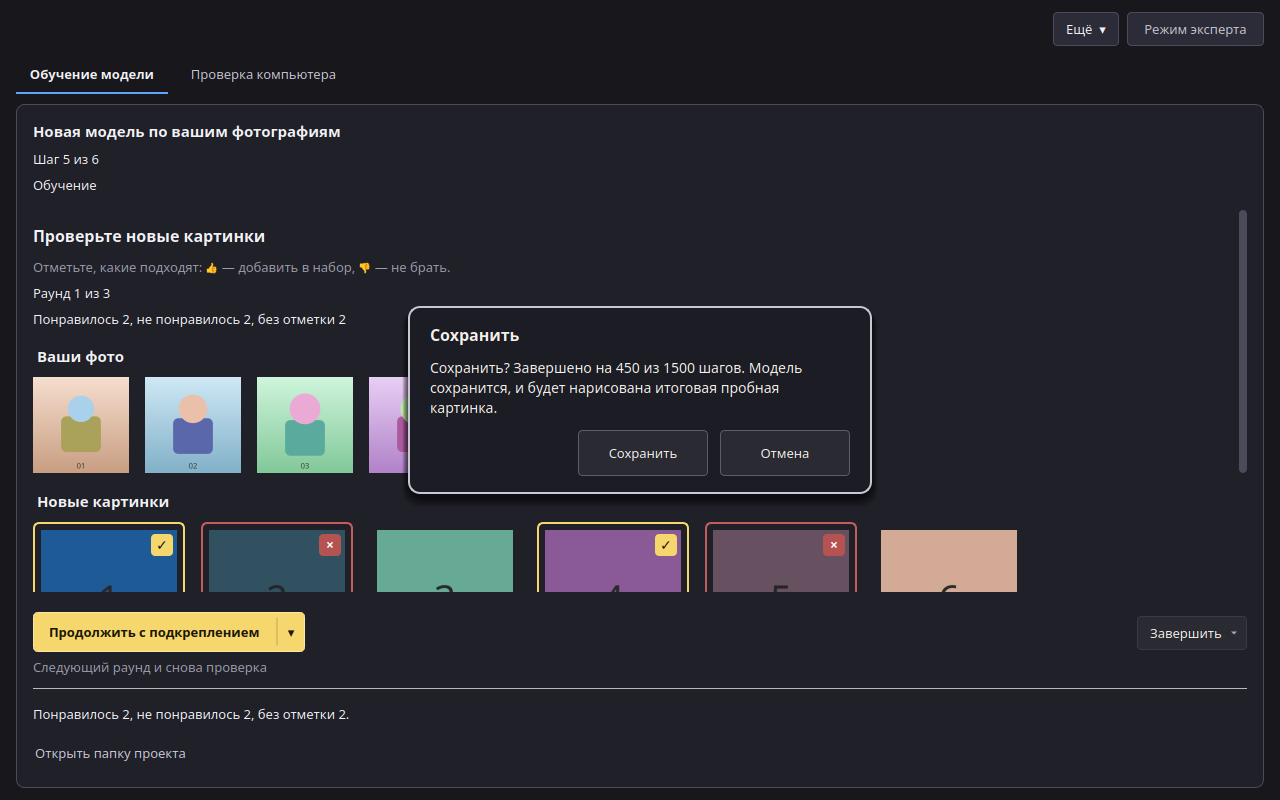
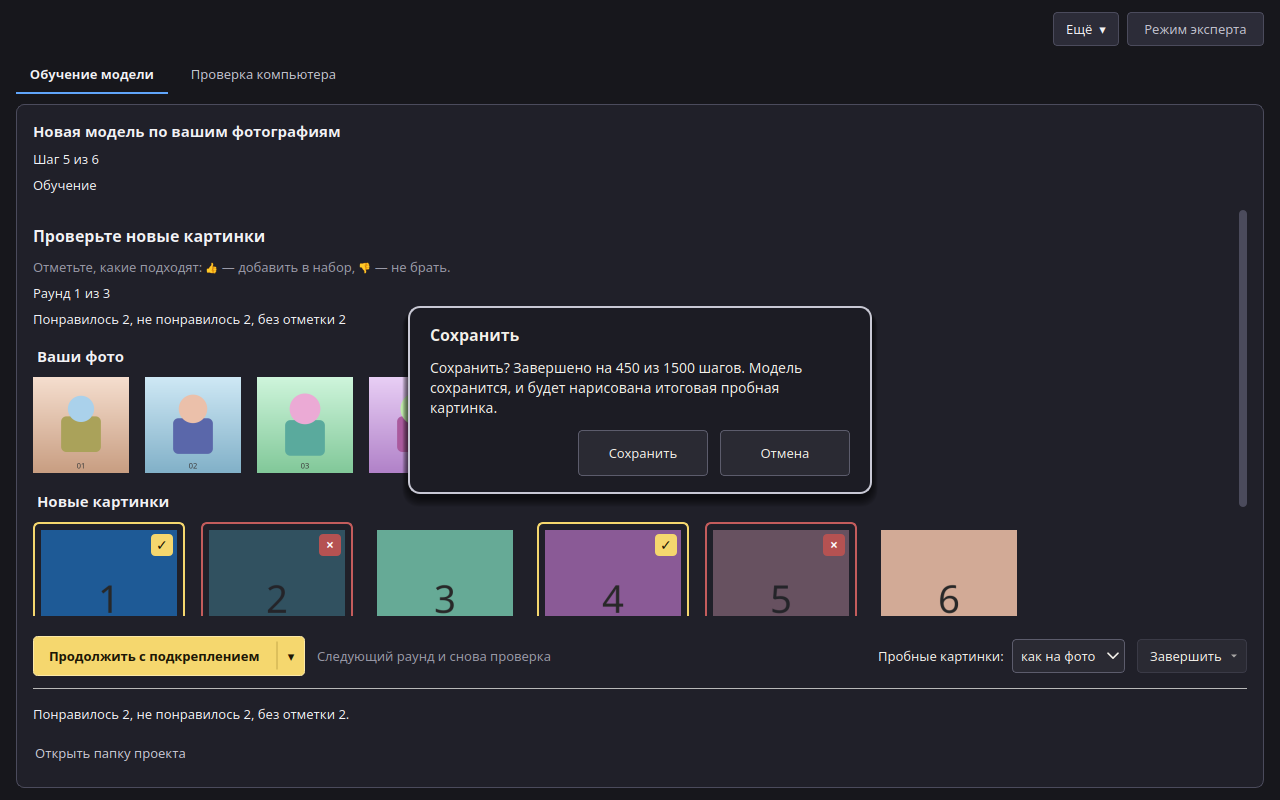
Show the full attire choice on the review row.
The sample-picture list sits beside the help line, wide enough for its longest item, with a dark chevron and a dark popup under it.

Changed region(s): [[0.0, 0.7188, 0.8125, 0.8438], [0.6875, 0.7812, 0.9688, 0.8438], [0.9688, 0.5938, 1.0, 0.625]]

diff --git a/src/voxprint_forge/app/guide/ru.html b/src/voxprint_forge/app/guide/ru.html
@@ -365,7 +365,8 @@
 <p>Если на шаге «Фотографии» включено <strong>Дополнить набор по образцам</strong>, обучение останавливается на проверку. <strong>Число раундов</strong> (от 1 до 6, по умолчанию 3) задаёт, сколько будет таких остановок. Первый этап — это <strong>Шаги первого раунда</strong> (по умолчанию 120, от 100 до 500). Затем приложение рисует 6 картинок в том же размере, что и обучение, по 28 шагов рисования. Следующие раунды рисуют по 8 картинок, тоже по 28 шагов. Оставшиеся шаги предустановки (все шаги минус шаги первого раунда) делятся поровну между оставшимися запланированными раундами, и последний забирает остаток. Общее число шагов предустановки не меняется. Если запланирован один раунд, он длится только как первый; оставшиеся шаги доучивает режим <strong>Просто продолжить</strong>.</p>
 <p>Заголовок — <strong>Проверьте новые картинки</strong>. Ваши фото остаются рядом с новыми. У каждой новой картинки есть <strong>Взять</strong> и <strong>Не брать</strong>. Взятая картинка получает золотую рамку и галочку. Отложенная тускнеет, с красноватой рамкой и крестиком. Картинка без отметки остаётся обычной.</p>
 <p><img alt="Раунд просмотра" src="img/ru-simple-5-review.png" /></p>
-<p><strong>Отметить все 👍</strong> берёт все новые картинки. <strong>Сбросить</strong> снимает отметки. Внизу видно, сколько взято, сколько отложено и сколько без отметки. Над рядом кнопок список <strong>Пробные картинки</strong>: <strong>как на фото</strong>, <strong>в одежде</strong> или <strong>без одежды</strong>. Выбор хранится в проекте и действует со следующего раунда. Каждая картинка собирается из ключевого слова, кадра (крупный портрет, по пояс или в полный рост) и одного слова про одежду. <strong>Как на фото</strong> повторяет описания: без одежды, если хотя бы одно описание так отмечено, иначе одеты, как на фото. Список сам одежду не добавляет. В одном ряду слева большая кнопка, справа маленькая <strong>Завершить</strong>. По умолчанию большая кнопка — <strong>Продолжить с подкреплением</strong>: она обучает следующий раунд и снова останавливается на проверку. Узкий <strong>▾</strong> на её правом краю переключает надпись на <strong>Просто продолжить</strong> и делает кнопку спокойнее, с короткой сменой надписи. <strong>Просто продолжить</strong> берёт уже выбранные картинки и доучивает оставшиеся шаги без новых проверок. Повторное нажатие <strong>▾</strong> возвращает подкрепление. Выбор сохраняется в настройках проекта. <strong>Завершить</strong> открывает меню. <strong>Сохранить</strong> сначала спрашивает и показывает, сколько шагов пройдено из запланированных, затем сохраняет модель и рисует итоговую пробную картинку. Получается готовая LoRA, которую можно экспортировать. На экране результата, в <code>train.json</code> и в данных экспорта (<code>steps</code> и <code>steps_planned</code>) записано, сколько шагов она прошла, например «Завершено на 450 из 1500 шагов». <strong>Принудительно, без сохранения</strong> сначала спрашивает, затем останавливает обучение и удаляет временные версии и пробные картинки проекта. Ничего не сохраняется. Ваши фото остаются. Если какая-то картинка без отметки, <strong>Продолжить с подкреплением</strong> и <strong>Просто продолжить</strong> спрашивают подтверждение: неотмеченные картинки не войдут в набор. Под кнопками одна короткая приглушённая строка называет текущий режим большой кнопки и меняется, когда ▾ переключает его. Полные объяснения — во всплывающих подсказках у большой кнопки, ▾, «Завершить» и каждого пункта меню. Закончить можно и раньше последнего раунда. <strong>Назад</strong> и <strong>Далее</strong> скрыты. Если закрыть приложение во время просмотра, тот же экран откроется снова вместе с проектом.</p>
+<p><img alt="Список пробных картинок" src="img/ru-simple-5-review-attire.png" /></p>
+<p><strong>Отметить все 👍</strong> берёт все новые картинки. <strong>Сбросить</strong> снимает отметки. Внизу видно, сколько взято, сколько отложено и сколько без отметки. В одном ряду с кнопкой продолжения, справа от подсказки, список <strong>Пробные картинки</strong>: <strong>как на фото</strong>, <strong>в одежде</strong> или <strong>без одежды</strong>. Выбор хранится в проекте и действует со следующего раунда. Каждая картинка собирается из ключевого слова, кадра (крупный портрет, по пояс или в полный рост) и одного слова про одежду. <strong>Как на фото</strong> повторяет описания: без одежды, если хотя бы одно описание так отмечено, иначе одеты, как на фото. Список сам одежду не добавляет. В одном ряду слева большая кнопка, справа маленькая <strong>Завершить</strong>. По умолчанию большая кнопка — <strong>Продолжить с подкреплением</strong>: она обучает следующий раунд и снова останавливается на проверку. Узкий <strong>▾</strong> на её правом краю переключает надпись на <strong>Просто продолжить</strong> и делает кнопку спокойнее, с короткой сменой надписи. <strong>Просто продолжить</strong> берёт уже выбранные картинки и доучивает оставшиеся шаги без новых проверок. Повторное нажатие <strong>▾</strong> возвращает подкрепление. Выбор сохраняется в настройках проекта. <strong>Завершить</strong> открывает меню. <strong>Сохранить</strong> сначала спрашивает и показывает, сколько шагов пройдено из запланированных, затем сохраняет модель и рисует итоговую пробную картинку. Получается готовая LoRA, которую можно экспортировать. На экране результата, в <code>train.json</code> и в данных экспорта (<code>steps</code> и <code>steps_planned</code>) записано, сколько шагов она прошла, например «Завершено на 450 из 1500 шагов». <strong>Принудительно, без сохранения</strong> сначала спрашивает, затем останавливает обучение и удаляет временные версии и пробные картинки проекта. Ничего не сохраняется. Ваши фото остаются. Если какая-то картинка без отметки, <strong>Продолжить с подкреплением</strong> и <strong>Просто продолжить</strong> спрашивают подтверждение: неотмеченные картинки не войдут в набор. В том же ряду, справа от большой кнопки, одна короткая приглушённая строка называет текущий режим и меняется, когда ▾ переключает его. Полные объяснения — во всплывающих подсказках у большой кнопки, ▾, «Завершить» и каждого пункта меню. Закончить можно и раньше последнего раунда. <strong>Назад</strong> и <strong>Далее</strong> скрыты. Если закрыть приложение во время просмотра, тот же экран откроется снова вместе с проектом.</p>
 <p><img alt="Подсказка у большой кнопки" src="img/ru-simple-5-review-tip.png" /></p>
 <p><img alt="Просто продолжить" src="img/ru-simple-5-review-plain.png" /></p>
 <p><img alt="Меню «Завершить»" src="img/ru-simple-5-finish-menu.png" /></p>

diff --git a/src/voxprint_forge/app/guide/en.html b/src/voxprint_forge/app/guide/en.html
@@ -363,7 +363,7 @@
 <p>With <strong>Extend the set from samples</strong> on (Photos step), training pauses for review. <strong>Review rounds</strong> (1 to 6, default 3) is how many pauses are planned. The first stage is <strong>First-round steps</strong> (default 120, from 100 to 500). The app then draws 6 pictures at the training resolution, 28 inference steps each. Later rounds draw 8 pictures, also at 28 steps. The preset steps that remain (the preset total minus the first-round steps) are split evenly across the remaining planned rounds, and the last of those rounds takes the remainder. The preset total does not change. A single planned round is only the first-round length; the steps still left are what <strong>Just continue</strong> runs.</p>
 <p>The heading is <strong>Check the new pictures</strong>. Your photos stay beside the new pictures. Each new picture has <strong>Include</strong> and <strong>Leave out</strong>. A picture you include gets a gold border and a check. A picture you leave out is dimmed, with a red border and a cross. A picture with no mark stays plain.</p>
 <p><img alt="A review round" src="img/en-simple-5-review.png" /></p>
-<p><strong>Mark all 👍</strong> includes every new picture. <strong>Reset</strong> clears the marks. The footer counts pictures you included, pictures you left out, and pictures with no mark. Above the action row, <strong>Sample pictures</strong> offers <strong>as in the photos</strong>, <strong>clothed</strong>, or <strong>unclothed</strong>. The choice is kept in the project and applies from the next round. Each sample uses the trigger word, one framing (close-up portrait, waist-up, or full body), and one attire word. <strong>As in the photos</strong> follows the prepared captions: unclothed when any caption is marked unclothed, otherwise clothed like the photos. The list does not add clothing on its own. The action row has a large button on the left and a small <strong>Finish</strong> button on the right. <strong>Continue with reinforcement</strong> is the default. It trains the next round, then pauses for another review. The <strong>▾</strong> cut into its right edge switches that same button to <strong>Just continue</strong>, in a calmer colour, with a short crossfade. <strong>Just continue</strong> keeps the pictures you liked and trains the remaining steps with no more pauses. Pressing <strong>▾</strong> again returns to reinforcement. The choice is kept in the project. <strong>Finish</strong> opens a small menu. <strong>Save</strong> asks first and shows the steps done out of the plan, then saves the model and draws a final preview. The result is a finished LoRA you can export, labelled with the steps it got (for example, finished at 450 of 1500 steps) on the result screen, in <code>train.json</code>, and in the export (<code>steps</code> and <code>steps_planned</code>). <strong>Force, without saving</strong> asks first, then stops and removes the project's temporary versions and samples. Nothing is saved. Your photos stay. If any picture has no mark, <strong>Continue with reinforcement</strong> and <strong>Just continue</strong> ask you to confirm: unmarked pictures will not join the set. One short muted line under the buttons names the current main-button mode and changes when ▾ switches it. The full explanations are tooltips on the main button, ▾, Finish, and each menu item. You can finish before the last planned round. Back and Next stay hidden. Closing the app does not drop a paused review: open the project again and the same screen is there.</p>
+<p><strong>Mark all 👍</strong> includes every new picture. <strong>Reset</strong> clears the marks. The footer counts pictures you included, pictures you left out, and pictures with no mark. On the action row, to the right of the help line, <strong>Sample pictures</strong> offers <strong>as in the photos</strong>, <strong>clothed</strong>, or <strong>unclothed</strong>. The choice is kept in the project and applies from the next round. Each sample uses the trigger word, one framing (close-up portrait, waist-up, or full body), and one attire word. <strong>As in the photos</strong> follows the prepared captions: unclothed when any caption is marked unclothed, otherwise clothed like the photos. The list does not add clothing on its own. The action row has a large button on the left and a small <strong>Finish</strong> button on the right. <strong>Continue with reinforcement</strong> is the default. It trains the next round, then pauses for another review. The <strong>▾</strong> cut into its right edge switches that same button to <strong>Just continue</strong>, in a calmer colour, with a short crossfade. <strong>Just continue</strong> keeps the pictures you liked and trains the remaining steps with no more pauses. Pressing <strong>▾</strong> again returns to reinforcement. The choice is kept in the project. <strong>Finish</strong> opens a small menu. <strong>Save</strong> asks first and shows the steps done out of the plan, then saves the model and draws a final preview. The result is a finished LoRA you can export, labelled with the steps it got (for example, finished at 450 of 1500 steps) on the result screen, in <code>train.json</code>, and in the export (<code>steps</code> and <code>steps_planned</code>). <strong>Force, without saving</strong> asks first, then stops and removes the project's temporary versions and samples. Nothing is saved. Your photos stay. If any picture has no mark, <strong>Continue with reinforcement</strong> and <strong>Just continue</strong> ask you to confirm: unmarked pictures will not join the set. One short muted line on that row, just to the right of the continue button, names the current main-button mode and changes when ▾ switches it. The full explanations are tooltips on the main button, ▾, Finish, and each menu item. You can finish before the last planned round. Back and Next stay hidden. Closing the app does not drop a paused review: open the project again and the same screen is there.</p>
 <p>On the command line, <code>lora train --review-rounds N --first-round-steps 120 --first-round-samples 6 --samples-per-round 8 --sample-steps 28 --sample-attire auto</code> pauses the same way. <code>--sample-attire</code> is <code>auto</code> (the default), <code>as_photos</code>, <code>clothed</code>, or <code>unclothed</code>, and it is stored on the project. N is from 1 to 6, and the default is 3. <code>lora review</code> lists the pictures and sets marks (<code>--like</code>, <code>--dislike</code>, or <code>--from-file</code>). <code>lora continue PROJECT</code> trains the next round, then pauses for another review. <code>lora continue PROJECT --unattended</code> trains the remaining steps with no more pauses. <code>lora finish PROJECT</code> saves the model, draws a final preview, and records the steps it got. <code>lora finish PROJECT --discard</code> stops and removes temporary versions and samples; without a terminal it also needs <code>--yes</code>. Your photos stay. <code>lora status</code> prints the same first-pictures line during round 1. <code>--review-rounds 0</code> trains straight through.</p>
 <h2 id="expert-settings">Expert settings</h2>
 <p>In Expert mode the panel on the right shows every value: Rank, Alpha, Steps, Learning rate, Scheduler, Warm-up steps, Batch size, Gradient accumulation, Resolution, Precision, Gradient checkpointing, Train the text encoder, Descriptions, Description model, Caption dropout, Seed, Save every N steps and Test picture every N steps. The reset button next to the presets puts back the values of the chosen preset.</p>

diff --git a/src/voxprint_forge/app/window.py b/src/voxprint_forge/app/window.py
@@ -1603,33 +1603,36 @@ class ForgeApp:
         column.addLayout(tools)
         row = QtWidgets.QHBoxLayout()
         row.setAlignment(QtCore.Qt.AlignmentFlag.AlignVCenter)
+        row.setSpacing(12)
         cont = self._continue_control(busy)
         finish = self._finish_menu(busy)
-        row.addWidget(cont)
-        row.addStretch(1)
-        row.addWidget(finish)
         note = QtWidgets.QLabel()
         note.setObjectName("forge.review.note")
         note.setProperty("muted", "true")
         note.setWordWrap(False)
+        note.setSizePolicy(QtWidgets.QSizePolicy.Policy.Maximum, QtWidgets.QSizePolicy.Policy.Fixed)
         self._review_note = note
         self._show_review_note(cont.mode())
         cont.toggled.connect(self._show_review_note)
+        row.addWidget(cont, 0, QtCore.Qt.AlignmentFlag.AlignVCenter)
+        row.addWidget(note, 0, QtCore.Qt.AlignmentFlag.AlignVCenter)
+        row.addStretch(1)
+        row.addWidget(self._review_attire(busy), 0, QtCore.Qt.AlignmentFlag.AlignVCenter)
+        row.addWidget(finish, 0, QtCore.Qt.AlignmentFlag.AlignVCenter)
         bar = QtWidgets.QWidget()
         bar.setObjectName("forge.review.actions")
         pinned = QtWidgets.QVBoxLayout(bar)
         pinned.setContentsMargins(0, 8, 0, 0)
-        pinned.setSpacing(6)
-        pinned.addWidget(self._review_attire(busy))
+        pinned.setSpacing(0)
         pinned.addLayout(row)
-        pinned.addWidget(note)
         self._review_actions = bar
         self._review_continue = cont
 
     def _review_attire(self, busy: bool) -> QtWidgets.QWidget:
-        """Attire for the next round's samples, left-aligned with the action row."""
+        """Attire for the next round, on the continue row and to the right of the help line."""
         row = QtWidgets.QWidget()
         row.setObjectName("forge.review.attire.row")
+        row.setSizePolicy(QtWidgets.QSizePolicy.Policy.Maximum, QtWidgets.QSizePolicy.Policy.Fixed)
         layout = QtWidgets.QHBoxLayout(row)
         layout.setContentsMargins(0, 0, 0, 0)
         layout.setSpacing(8)
@@ -1648,6 +1651,7 @@ class ForgeApp:
             ("forge.app.review.attire.unclothed", "unclothed"),
         ):
             combo.addItem(tr(key), mode)
+        combo.fit_to_items()
         stored = self._stored_sample_attire()
         shown = stored if stored in ("clothed", "unclothed") else "auto"
         combo.blockSignals(True)
@@ -1658,7 +1662,6 @@ class ForgeApp:
         self._attire_combo = combo
         layout.addWidget(label, 0, QtCore.Qt.AlignmentFlag.AlignVCenter)
         layout.addWidget(combo, 0, QtCore.Qt.AlignmentFlag.AlignVCenter)
-        layout.addStretch(1)
         return row
 
     def _stored_sample_attire(self) -> str:
@@ -3325,78 +3328,117 @@ def _menu(parent: QtWidgets.QWidget, name: str) -> QtWidgets.QMenu:
     return menu
 
 
+_ATTIRE_DROP_W = 22
+_ATTIRE_TEXT_PAD = 8
+_ATTIRE_ARROW = Path(__file__).resolve().parent / "review-chevron.svg"
 _ATTIRE_COMBO_STYLE = """
 QComboBox {
     background: #2a2a33; color: #f4f1ea; border: 1px solid #5c5c6c; border-radius: 4px;
-    padding: 2px 22px 2px 8px; min-height: 28px; max-height: 28px;
+    padding: 2px 4px 2px 8px; min-height: 28px; max-height: 28px;
 }
 QComboBox:hover { border-color: #c8c8d4; }
 QComboBox:disabled { background: #22222b; color: #6e6e7e; border-color: #33333f; }
-QComboBox::drop-down { border: none; width: 18px; }
-QComboBox QAbstractItemView {
-    background: #1c1c24; color: #f4f1ea; border: 1px solid #c8c8d4;
-    selection-background-color: #3a3a46; selection-color: #f4f1ea; outline: 0;
+QComboBox::drop-down {
+    subcontrol-origin: padding; subcontrol-position: center right;
+    width: 22px; border: none;
+    border-top-right-radius: 4px; border-bottom-right-radius: 4px;
 }
+QComboBox::down-arrow { image: url(@@ARROW@@); width: 12px; height: 8px; }
+QComboBox QAbstractItemView {
+    background: #1c1c24; color: #f4f1ea; border: 1px solid #c8c8d4; border-radius: 4px;
+    selection-background-color: #3a3a46; selection-color: #f4f1ea; outline: 0; padding: 2px;
+}
+"""
+_ATTIRE_POPUP_STYLE = """
+QFrame { background: #1c1c24; color: #f4f1ea; border: 1px solid #c8c8d4; border-radius: 4px; }
 """
 _ATTIRE_VIEW_STYLE = """
 QAbstractItemView {
-    background: #1c1c24; color: #f4f1ea; border: 1px solid #c8c8d4;
-    selection-background-color: #3a3a46; selection-color: #f4f1ea; outline: 0;
+    background: #1c1c24; color: #f4f1ea; border: none;
+    selection-background-color: #3a3a46; selection-color: #f4f1ea; outline: 0; padding: 2px;
 }
 """
 
 
+def _attire_combo_style() -> str:
+    """Dark combo face. The ▾ is the down-arrow image."""
+    return _ATTIRE_COMBO_STYLE.replace("@@ARROW@@", _ATTIRE_ARROW.as_posix())
+
+
 class _AttireCombo(QtWidgets.QComboBox):
-    """Dark attire list. The popup stays on the control and inside the window."""
+    """Dark attire list. The popup opens under the box."""
 
     def __init__(self) -> None:
         super().__init__()
         self.setObjectName("forge.review.attire")
-        self.setStyleSheet(_ATTIRE_COMBO_STYLE)
-        self.setSizePolicy(QtWidgets.QSizePolicy.Policy.Fixed, QtWidgets.QSizePolicy.Policy.Fixed)
+        self.setStyleSheet(_attire_combo_style())
+        self.setSizeAdjustPolicy(QtWidgets.QComboBox.SizeAdjustPolicy.AdjustToContents)
+        self.setSizePolicy(QtWidgets.QSizePolicy.Policy.Minimum, QtWidgets.QSizePolicy.Policy.Fixed)
         self.setFixedHeight(28)
         self.setCursor(QtCore.Qt.CursorShape.PointingHandCursor)
         self.setFocusPolicy(QtCore.Qt.FocusPolicy.StrongFocus)
+        self.view().setTextElideMode(QtCore.Qt.TextElideMode.ElideNone)
 
     def showEvent(self, event: QtGui.QShowEvent) -> None:  # noqa: N802 - Qt override
         """Size the box to its longest item once the font is real."""
         super().showEvent(event)
         self.fit_to_items()
 
+    def changeEvent(self, event: QtCore.QEvent) -> None:  # noqa: N802 - Qt override
+        """Measure again when the font changes."""
+        super().changeEvent(event)
+        if event.type() == QtCore.QEvent.Type.FontChange:
+            self.fit_to_items()
+
     def fit_to_items(self) -> None:
-        """Keep every item on one line, with room for the arrow."""
+        """Minimum width is the longest item, plus the arrow and the padding."""
         self.ensurePolished()
         metrics = self.fontMetrics()
-        widest = max((metrics.horizontalAdvance(self.itemText(index)) for index in range(self.count())), default=0)
-        self.setFixedWidth(widest + 36)
+        widest = 0
+        for index in range(self.count()):
+            text = self.itemText(index)
+            widest = max(widest, metrics.horizontalAdvance(text), metrics.boundingRect(text).width())
+        floor = widest + _ATTIRE_TEXT_PAD + _ATTIRE_TEXT_PAD + _ATTIRE_DROP_W
+        self.setMinimumWidth(floor)
+        self.updateGeometry()
 
     def showPopup(self) -> None:  # noqa: N802 - Qt override
-        """Open the list under the box, or above it when the window ends first."""
-        self.view().setStyleSheet(_ATTIRE_VIEW_STYLE)
+        """Open the dark list directly under the box, sharing its left edge."""
+        view = self.view()
+        view.setTextElideMode(QtCore.Qt.TextElideMode.ElideNone)
         super().showPopup()
-        popup = self.view().window()
+        popup = view.window()
         if popup is None or popup is self.window():
             return
+        popup.setStyleSheet(_ATTIRE_POPUP_STYLE)
+        view.setStyleSheet(_ATTIRE_VIEW_STYLE)
         self._place_popup(popup)
 
     def _place_popup(self, popup: QtWidgets.QWidget) -> None:
-        popup.adjustSize()
-        width = max(self.width(), popup.sizeHint().width(), popup.width())
-        height = max(popup.sizeHint().height(), popup.height(), 1)
-        popup.resize(width, height)
+        view = self.view()
+        for child in popup.findChildren(QtWidgets.QWidget):
+            if child.metaObject().className() == "QComboBoxPrivateScroller":
+                child.hide()
+                child.setFixedHeight(0)
+        layout = popup.layout()
+        if layout is not None:
+            layout.setContentsMargins(1, 1, 1, 1)
+        metrics = self.fontMetrics()
+        widest = 0
+        for index in range(self.count()):
+            widest = max(widest, metrics.horizontalAdvance(self.itemText(index)))
+        width = max(self.width(), widest + _ATTIRE_TEXT_PAD * 2)
+        row = view.sizeHintForRow(0) if self.count() else metrics.height() + 6
+        height = row * max(1, self.count()) + 2
+        popup.setFixedSize(width, height)
+        view.setFixedSize(max(1, width - 2), max(1, height - 2))
         origin = self.mapToGlobal(QtCore.QPoint(0, 0))
-        below = origin.y() + self.height()
+        left = origin.x()
+        top = origin.y() + self.height()
         host = self.window()
-        if host is None:
-            popup.move(origin.x(), below)
-            return
-        frame = QtCore.QRect(host.mapToGlobal(QtCore.QPoint(0, 0)), host.size())
-        if below + popup.height() > frame.bottom() and origin.y() - popup.height() >= frame.top():
-            top = origin.y() - popup.height()
-        else:
-            top = below
-        left = min(max(origin.x(), frame.left()), frame.right() - popup.width() + 1)
-        top = min(max(top, frame.top()), frame.bottom() - popup.height() + 1)
+        if host is not None:
+            frame = QtCore.QRect(host.mapToGlobal(QtCore.QPoint(0, 0)), host.size())
+            left = min(max(left, frame.left()), max(frame.left(), frame.right() - popup.width() + 1))
         popup.move(left, top)
 
 

diff --git a/tests/test_app_review.py b/tests/test_app_review.py
@@ -972,20 +972,37 @@ def test_the_sample_attire_combo_stays_on_the_action_row(make_app, tmp_path, qap
     assert combo.itemData(0) == "auto"
     assert "следующего раунда" in combo.toolTip()
     assert label.width() >= label.fontMetrics().horizontalAdvance(label.text())
-    assert combo.width() >= combo.fontMetrics().horizontalAdvance("как на фото") + 16
+    longest = max(
+        (combo.itemText(index) for index in range(combo.count())),
+        key=lambda text: combo.fontMetrics().horizontalAdvance(text),
+    )
+    assert combo.width() >= combo.fontMetrics().horizontalAdvance(longest)
+    assert combo.width() >= combo.fontMetrics().horizontalAdvance(longest) + 22
+    note = app.window.findChild(QtWidgets.QLabel, "forge.review.note")
+    finish = app.window.findChild(QtWidgets.QPushButton, "forge.review.finish")
+    assert note is not None and finish is not None
     label_box = label.mapTo(app.window, QtCore.QPoint(0, 0))
     combo_box = combo.mapTo(app.window, QtCore.QPoint(0, 0))
     host_box = host.mapTo(app.window, QtCore.QPoint(0, 0))
-    assert abs(label_box.x() - host_box.x()) <= 2
+    note_box = note.mapTo(app.window, QtCore.QPoint(0, 0))
+    finish_box = finish.mapTo(app.window, QtCore.QPoint(0, 0))
+    assert abs((combo_box.y() + combo.height() // 2) - (host_box.y() + host.height() // 2)) <= 6
+    assert combo_box.x() >= note_box.x() + note.width() - 2
+    assert combo_box.x() + combo.width() <= finish_box.x()
     assert combo_box.x() >= label_box.x() + label.width() - 2
-    assert abs((label_box.y() + label.height() // 2) - (combo_box.y() + combo.height() // 2)) <= 4
-    assert combo_box.y() + combo.height() <= host_box.y()
     assert combo_box.x() + combo.width() <= app.window.width()
+    assert note.width() >= note.fontMetrics().horizontalAdvance(note.text())
     face = combo.grab().toImage()
     background = face.pixelColor(6, face.height() // 2)
     assert background.lightness() < 80
     assert _has_light_pixel(combo)
     assert _has_light_pixel(label)
+    arrow = face.copy(face.width() - 18, 4, 14, max(1, face.height() - 8))
+    assert any(
+        arrow.pixelColor(x, y).lightness() > 140
+        for y in range(arrow.height())
+        for x in range(arrow.width())
+    )
     names = sorted(path.name for path in (app.project / "review").rglob("*.png"))
     combo.setCurrentIndex(2)
     qapp.processEvents()
@@ -998,9 +1015,7 @@ def test_the_sample_attire_combo_stays_on_the_action_row(make_app, tmp_path, qap
     origin = combo.mapToGlobal(QtCore.QPoint(0, 0))
     frame = QtCore.QRect(app.window.mapToGlobal(QtCore.QPoint(0, 0)), app.window.size())
     assert abs(popup.x() - origin.x()) <= 2
-    touches_below = abs(popup.y() - (origin.y() + combo.height())) <= 2
-    touches_above = abs(origin.y() - (popup.y() + popup.height())) <= 2
-    assert touches_below or touches_above
+    assert abs(popup.y() - (origin.y() + combo.height())) <= 2
     assert frame.contains(QtCore.QRect(popup.pos(), popup.size()))
     fill = popup.grab().toImage().pixelColor(8, 8)
     assert fill.lightness() < 80

diff --git a/scripts/forge_app_shots.py b/scripts/forge_app_shots.py
@@ -258,6 +258,24 @@ def shot_review_rounds(out: Path, home: Path, photos: list[Path]) -> None:
             if image.width() != 1280 or image.height() != 800:
                 raise SystemExit(f"review grab is {image.width()}x{image.height()}, want 1280x800")
             image.save(str(out / "ru-simple-5-review.png"))
+            combo = forge.window.findChild(QtWidgets.QComboBox, "forge.review.attire")
+            if combo is None:
+                raise SystemExit("review attire combo is missing")
+            combo.showPopup()
+            app.processEvents()
+            popup = combo.view().window()
+            if popup is None or not popup.isVisible():
+                raise SystemExit("attire popup did not open")
+            listed = forge.window.grab()
+            if listed.width() != 1280 or listed.height() != 800:
+                raise SystemExit(f"attire grab is {listed.width()}x{listed.height()}, want 1280x800")
+            point = forge.window.mapFromGlobal(popup.mapToGlobal(QtCore.QPoint(0, 0)))
+            painter = QtGui.QPainter(listed)
+            painter.drawPixmap(point, popup.grab())
+            painter.end()
+            listed.save(str(out / "ru-simple-5-review-attire.png"))
+            combo.hidePopup()
+            app.processEvents()
             _save_button_tooltip(
                 forge.window,
                 forge.window.findChild(QtWidgets.QPushButton, "forge.review.continue"),

diff --git a/docs/manual/ru/training.md b/docs/manual/ru/training.md
@@ -44,7 +44,9 @@
 
 ![Раунд просмотра](../img/ru-simple-5-review.png)
 
-**Отметить все 👍** берёт все новые картинки. **Сбросить** снимает отметки. Внизу видно, сколько взято, сколько отложено и сколько без отметки. Над рядом кнопок список **Пробные картинки**: **как на фото**, **в одежде** или **без одежды**. Выбор хранится в проекте и действует со следующего раунда. Каждая картинка собирается из ключевого слова, кадра (крупный портрет, по пояс или в полный рост) и одного слова про одежду. **Как на фото** повторяет описания: без одежды, если хотя бы одно описание так отмечено, иначе одеты, как на фото. Список сам одежду не добавляет. В одном ряду слева большая кнопка, справа маленькая **Завершить**. По умолчанию большая кнопка — **Продолжить с подкреплением**: она обучает следующий раунд и снова останавливается на проверку. Узкий **▾** на её правом краю переключает надпись на **Просто продолжить** и делает кнопку спокойнее, с короткой сменой надписи. **Просто продолжить** берёт уже выбранные картинки и доучивает оставшиеся шаги без новых проверок. Повторное нажатие **▾** возвращает подкрепление. Выбор сохраняется в настройках проекта. **Завершить** открывает меню. **Сохранить** сначала спрашивает и показывает, сколько шагов пройдено из запланированных, затем сохраняет модель и рисует итоговую пробную картинку. Получается готовая LoRA, которую можно экспортировать. На экране результата, в `train.json` и в данных экспорта (`steps` и `steps_planned`) записано, сколько шагов она прошла, например «Завершено на 450 из 1500 шагов». **Принудительно, без сохранения** сначала спрашивает, затем останавливает обучение и удаляет временные версии и пробные картинки проекта. Ничего не сохраняется. Ваши фото остаются. Если какая-то картинка без отметки, **Продолжить с подкреплением** и **Просто продолжить** спрашивают подтверждение: неотмеченные картинки не войдут в набор. Под кнопками одна короткая приглушённая строка называет текущий режим большой кнопки и меняется, когда ▾ переключает его. Полные объяснения — во всплывающих подсказках у большой кнопки, ▾, «Завершить» и каждого пункта меню. Закончить можно и раньше последнего раунда. **Назад** и **Далее** скрыты. Если закрыть приложение во время просмотра, тот же экран откроется снова вместе с проектом.
+![Список пробных картинок](../img/ru-simple-5-review-attire.png)
+
+**Отметить все 👍** берёт все новые картинки. **Сбросить** снимает отметки. Внизу видно, сколько взято, сколько отложено и сколько без отметки. В одном ряду с кнопкой продолжения, справа от подсказки, список **Пробные картинки**: **как на фото**, **в одежде** или **без одежды**. Выбор хранится в проекте и действует со следующего раунда. Каждая картинка собирается из ключевого слова, кадра (крупный портрет, по пояс или в полный рост) и одного слова про одежду. **Как на фото** повторяет описания: без одежды, если хотя бы одно описание так отмечено, иначе одеты, как на фото. Список сам одежду не добавляет. В одном ряду слева большая кнопка, справа маленькая **Завершить**. По умолчанию большая кнопка — **Продолжить с подкреплением**: она обучает следующий раунд и снова останавливается на проверку. Узкий **▾** на её правом краю переключает надпись на **Просто продолжить** и делает кнопку спокойнее, с короткой сменой надписи. **Просто продолжить** берёт уже выбранные картинки и доучивает оставшиеся шаги без новых проверок. Повторное нажатие **▾** возвращает подкрепление. Выбор сохраняется в настройках проекта. **Завершить** открывает меню. **Сохранить** сначала спрашивает и показывает, сколько шагов пройдено из запланированных, затем сохраняет модель и рисует итоговую пробную картинку. Получается готовая LoRA, которую можно экспортировать. На экране результата, в `train.json` и в данных экспорта (`steps` и `steps_planned`) записано, сколько шагов она прошла, например «Завершено на 450 из 1500 шагов». **Принудительно, без сохранения** сначала спрашивает, затем останавливает обучение и удаляет временные версии и пробные картинки проекта. Ничего не сохраняется. Ваши фото остаются. Если какая-то картинка без отметки, **Продолжить с подкреплением** и **Просто продолжить** спрашивают подтверждение: неотмеченные картинки не войдут в набор. В том же ряду, справа от большой кнопки, одна короткая приглушённая строка называет текущий режим и меняется, когда ▾ переключает его. Полные объяснения — во всплывающих подсказках у большой кнопки, ▾, «Завершить» и каждого пункта меню. Закончить можно и раньше последнего раунда. **Назад** и **Далее** скрыты. Если закрыть приложение во время просмотра, тот же экран откроется снова вместе с проектом.
 
 ![Подсказка у большой кнопки](../img/ru-simple-5-review-tip.png)
 

diff --git a/docs/manual/en/training.md b/docs/manual/en/training.md
@@ -42,7 +42,7 @@ The heading is **Check the new pictures**. Your photos stay beside the new pictu
 
 ![A review round](../img/en-simple-5-review.png)
 
-**Mark all 👍** includes every new picture. **Reset** clears the marks. The footer counts pictures you included, pictures you left out, and pictures with no mark. Above the action row, **Sample pictures** offers **as in the photos**, **clothed**, or **unclothed**. The choice is kept in the project and applies from the next round. Each sample uses the trigger word, one framing (close-up portrait, waist-up, or full body), and one attire word. **As in the photos** follows the prepared captions: unclothed when any caption is marked unclothed, otherwise clothed like the photos. The list does not add clothing on its own. The action row has a large button on the left and a small **Finish** button on the right. **Continue with reinforcement** is the default. It trains the next round, then pauses for another review. The **▾** cut into its right edge switches that same button to **Just continue**, in a calmer colour, with a short crossfade. **Just continue** keeps the pictures you liked and trains the remaining steps with no more pauses. Pressing **▾** again returns to reinforcement. The choice is kept in the project. **Finish** opens a small menu. **Save** asks first and shows the steps done out of the plan, then saves the model and draws a final preview. The result is a finished LoRA you can export, labelled with the steps it got (for example, finished at 450 of 1500 steps) on the result screen, in `train.json`, and in the export (`steps` and `steps_planned`). **Force, without saving** asks first, then stops and removes the project's temporary versions and samples. Nothing is saved. Your photos stay. If any picture has no mark, **Continue with reinforcement** and **Just continue** ask you to confirm: unmarked pictures will not join the set. One short muted line under the buttons names the current main-button mode and changes when ▾ switches it. The full explanations are tooltips on the main button, ▾, Finish, and each menu item. You can finish before the last planned round. Back and Next stay hidden. Closing the app does not drop a paused review: open the project again and the same screen is there.
+**Mark all 👍** includes every new picture. **Reset** clears the marks. The footer counts pictures you included, pictures you left out, and pictures with no mark. On the action row, to the right of the help line, **Sample pictures** offers **as in the photos**, **clothed**, or **unclothed**. The choice is kept in the project and applies from the next round. Each sample uses the trigger word, one framing (close-up portrait, waist-up, or full body), and one attire word. **As in the photos** follows the prepared captions: unclothed when any caption is marked unclothed, otherwise clothed like the photos. The list does not add clothing on its own. The action row has a large button on the left and a small **Finish** button on the right. **Continue with reinforcement** is the default. It trains the next round, then pauses for another review. The **▾** cut into its right edge switches that same button to **Just continue**, in a calmer colour, with a short crossfade. **Just continue** keeps the pictures you liked and trains the remaining steps with no more pauses. Pressing **▾** again returns to reinforcement. The choice is kept in the project. **Finish** opens a small menu. **Save** asks first and shows the steps done out of the plan, then saves the model and draws a final preview. The result is a finished LoRA you can export, labelled with the steps it got (for example, finished at 450 of 1500 steps) on the result screen, in `train.json`, and in the export (`steps` and `steps_planned`). **Force, without saving** asks first, then stops and removes the project's temporary versions and samples. Nothing is saved. Your photos stay. If any picture has no mark, **Continue with reinforcement** and **Just continue** ask you to confirm: unmarked pictures will not join the set. One short muted line on that row, just to the right of the continue button, names the current main-button mode and changes when ▾ switches it. The full explanations are tooltips on the main button, ▾, Finish, and each menu item. You can finish before the last planned round. Back and Next stay hidden. Closing the app does not drop a paused review: open the project again and the same screen is there.
 
 On the command line, `lora train --review-rounds N --first-round-steps 120 --first-round-samples 6 --samples-per-round 8 --sample-steps 28 --sample-attire auto` pauses the same way. `--sample-attire` is `auto` (the default), `as_photos`, `clothed`, or `unclothed`, and it is stored on the project. N is from 1 to 6, and the default is 3. `lora review` lists the pictures and sets marks (`--like`, `--dislike`, or `--from-file`). `lora continue PROJECT` trains the next round, then pauses for another review. `lora continue PROJECT --unattended` trains the remaining steps with no more pauses. `lora finish PROJECT` saves the model, draws a final preview, and records the steps it got. `lora finish PROJECT --discard` stops and removes temporary versions and samples; without a terminal it also needs `--yes`. Your photos stay. `lora status` prints the same first-pictures line during round 1. `--review-rounds 0` trains straight through.
 
